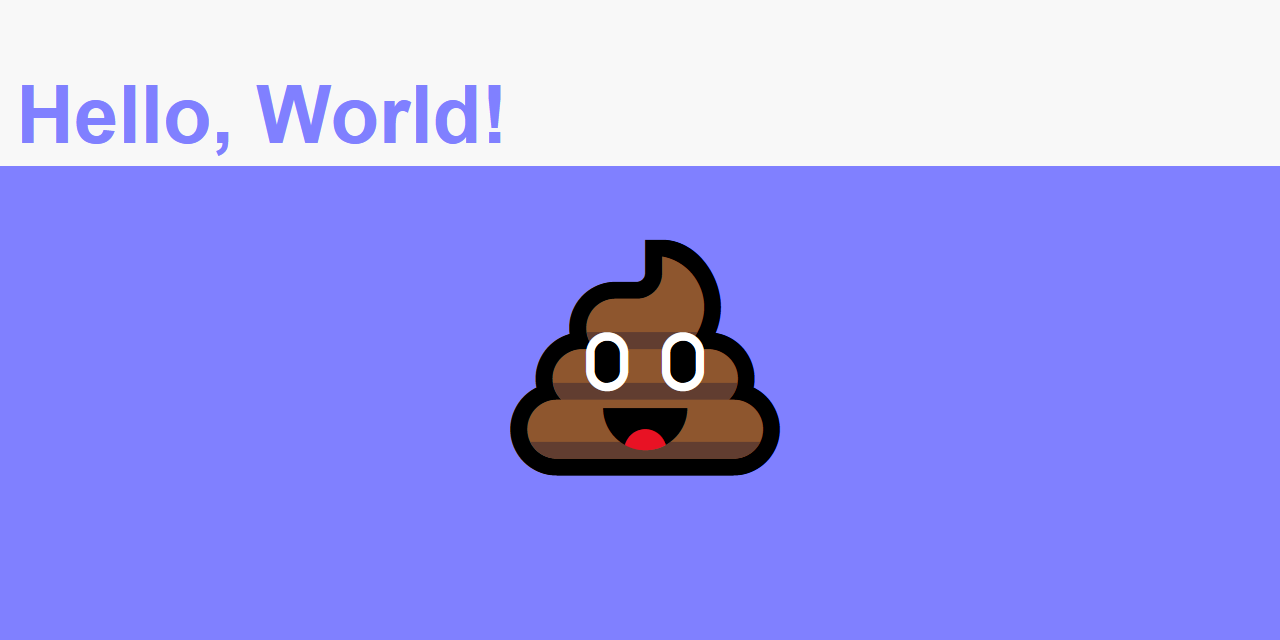
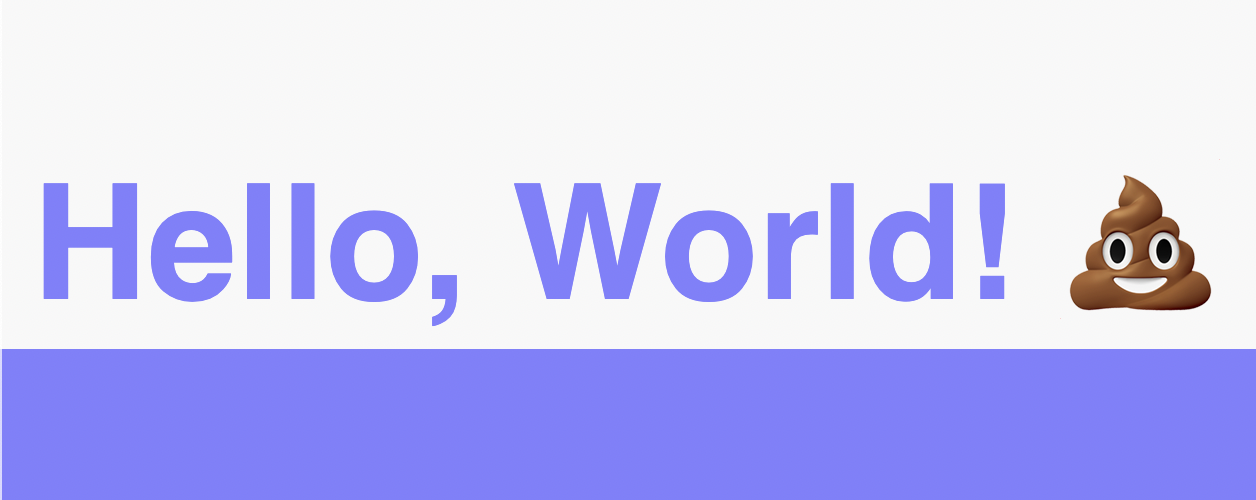
Updates home page styles

diff --git a/App/Assets/style.css b/App/Assets/style.css
@@ -14,11 +14,3 @@ h1 {
     font-family: sans-serif;
     font-size: 5em;
 }
-
-main {
-    text-align: center;
-}
-
-#poop-emoji {
-    font-size: 15em;
-}

diff --git a/App/Views/home.php b/App/Views/home.php
@@ -1,16 +1,16 @@
 <!DOCTYPE html>
 <html lang="en">
-    <head>
-        <meta charset="UTF-8">
-        <title>CRUDy</title>
-        <link rel="stylesheet" href="<?= App\Config::get('SITE_URL') ?>/App/Assets/style.css">
-    </head>
-    <body>
-        <header>
-            <h1><?= $header_text ?></h1>
-        </header>
-        <main>
-            <span id="poop-emoji">💩</span>
-        </main>
-    </body>
+<head>
+    <meta charset="UTF-8">
+    <meta http-equiv="X-UA-Compatible" content="IE=edge">
+    <meta name="viewport" content="width=device-width, initial-scale=1.0">
+    <title><?= App\Config::get('SITE_TITLE') ?></title>
+    <link rel="stylesheet" href="<?= App\Config::get('SITE_URL') ?>/App/Assets/style.css">
+</head>
+<body>
+    <header>
+        <h1>Hello, World! 💩</h1>
+    </header>
+    <main></main>
+</body>
 </html>

diff --git a/App/Controllers/HomeController.php b/App/Controllers/HomeController.php
@@ -11,8 +11,6 @@ class HomeController extends BaseController
      */
     public function index() : string
     {
-        return $this->loadView('home', [
-            'header_text' => 'Hello, World!'
-        ]);
+        return $this->loadView('home');
     }
 }
